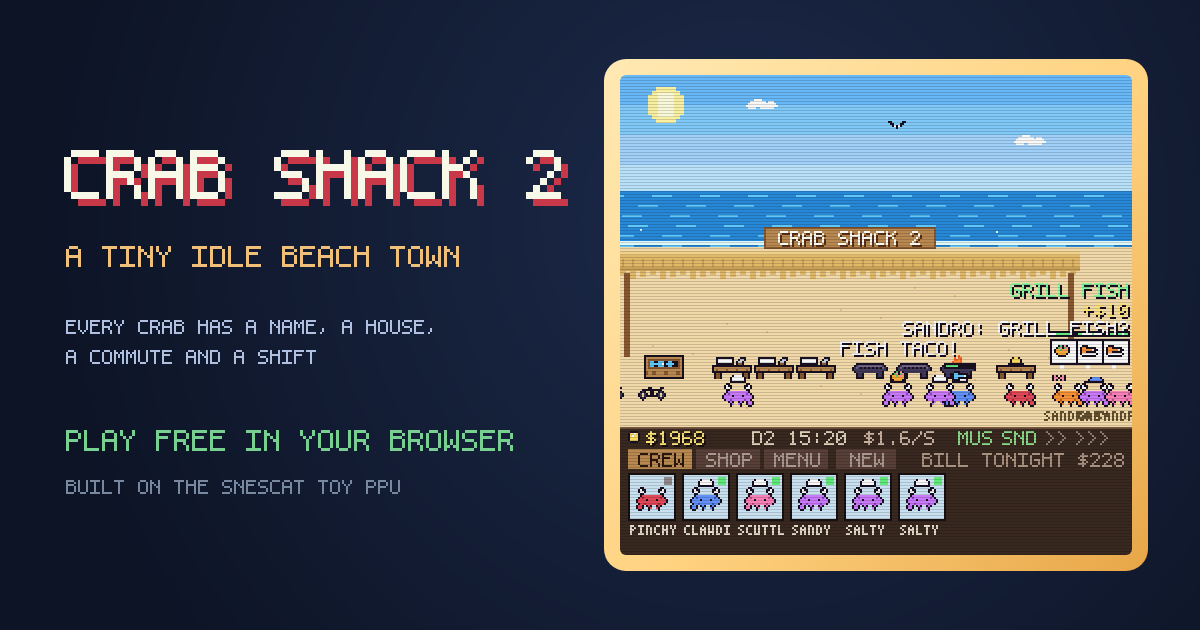
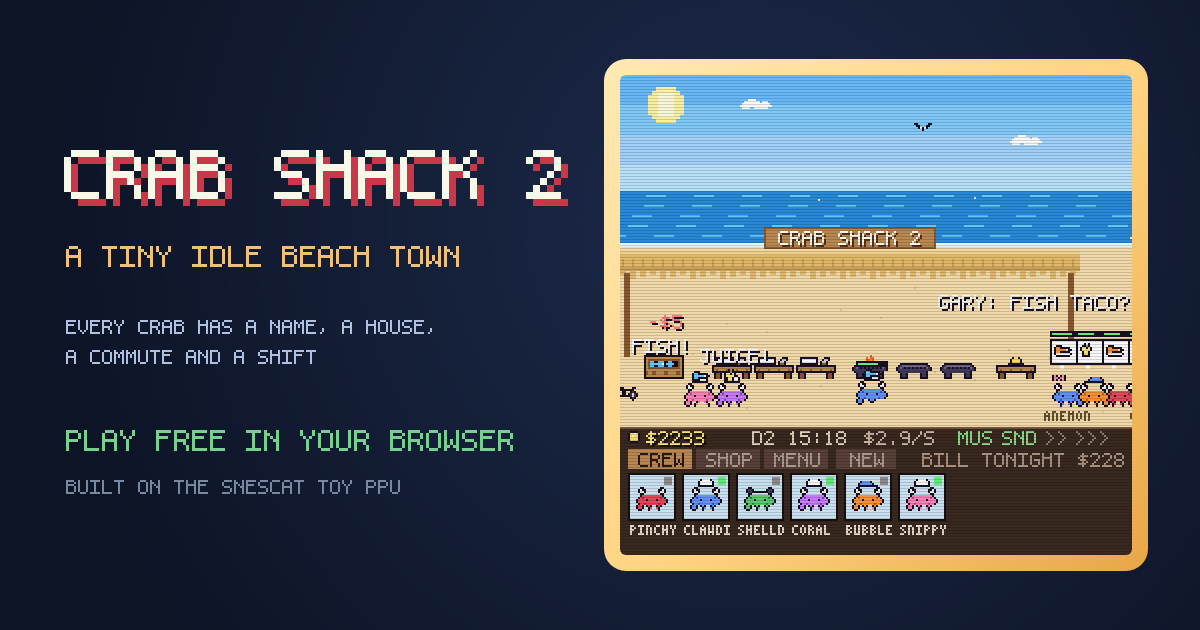
Fix stranded commuters, duplicate hires, and the hardcoded track credit
stepTo() tested arrival against a fixed 2px window while moving
speed*dt per frame. Whenever a step exceeded the window the crab jumped
the target every frame and oscillated forever, so it never clocked in.
Measured with tools/headless.mjs at --step 0.1: 2 crabs on duty instead
of 5. Arrival now triggers if the step would reach or overshoot, which
makes the sim timestep-independent (0.1 / 0.05 / 1/60 now agree on duty
counts, coins within 1.7%) and leaves 60fps play byte-identical.

Hiring called makeCrabPersona(crabs.length + random(0..5)), but that
index derives name, colour and the alternating M/E shift. The random
offset handed out duplicate names (two SALTYs in one 6-crab town) and
coin-flipped the shift, so hires piled onto evenings and the shack sat
unstaffed 8:00-14:00. Now indexed by real crew position, with the name
drawn from those not already taken; trait/mode/accessory stay random.

The title screen hardcoded PIXEL WAVE WALTZ although the playlist
rotates five tracks. It now names what is queued, with the credit on
its own line since CARNIVAL OF THE GLITCH overflows 256px.

Balance is unmoved: untouched shack still 0/8 survivors, median
eviction day 12 before and after; knife-only median 12 both ways.

og.png regenerated so the card shows six distinct crew names.

diff --git a/game.js b/game.js
@@ -265,9 +265,14 @@ function leaveGmin(c) {
 
 function stepTo(c, target, speed, dt) {
   const d = target - c.x;
-  if (Math.abs(d) <= 2) { c.x = target; return true; }
+  const step = speed * dt;
+  // Arrive if this step would reach or overshoot the target. A fixed 2px
+  // window alone strands anyone whose step is bigger than the window: they
+  // jump the target every frame and oscillate forever, never clocking in.
+  // (At 60fps a step is well under 2px, so normal play is unchanged.)
+  if (Math.abs(d) <= Math.max(2, step)) { c.x = target; return true; }
   c.flip = d < 0;
-  c.x += Math.sign(d) * speed * dt;
+  c.x += Math.sign(d) * step;
   return false;
 }
 
@@ -529,7 +534,14 @@ function tryBuy(key) {
   if (u.lvl >= u.max || coins < upCost(u)) return;
   coins -= upCost(u); u.lvl++;
   if (key === "chef") {
-    const p2 = makeCrabPersona(crabs.length + ((Math.random() * 6) | 0));
+    // Index by the real crew position: makeCrabPersona derives name, colour
+    // and the alternating M/E shift from it, so a random offset here handed
+    // out duplicate names and coin-flipped the shift (leaving mornings
+    // unstaffed). Trait/mode/accessory are the gacha, and still random.
+    const p2 = makeCrabPersona(crabs.length);
+    const taken = new Set(crabs.map(k => k.p.name));
+    const freeNames = CRAB_NAMES.filter(n => !taken.has(n));
+    if (freeNames.length) p2.name = freeNames[(Math.random() * freeNames.length) | 0];
     const used = new Set(crabs.filter(k => !k.p.homeless).map(k => k.p.house));
     p2.homeless = true;
     for (let h = 0; h < HOUSE_XS.length; h++) if (!used.has(h)) { p2.house = h; p2.homeless = false; break; }
@@ -1107,8 +1119,13 @@ function drawTitle() {
   rect(ctx, bx + 1, ny + 1, 98, 14, conf ? [150, 60, 60] : [120, 100, 80]);
   text(ctx, conf ? "WIPE SAVE?" : "NEW GAME", bx + (conf ? 21 : 26), ny + 5, conf ? [255, 220, 220] : [235, 225, 210]);
   if (((time * 1.5) | 0) % 2) text(ctx, "CLICK TO PLAY", W / 2 - 38, 162, [255, 250, 235], 6);
-  text(ctx, "MUSIC: PIXEL WAVE WALTZ - MATT CLANKER", 14, PANEL_Y + 8, [200, 182, 165]);
-  text(ctx, "BUILT ON THE SNESCAT TOY PPU", 44, PANEL_Y + 20, [165, 145, 128]);
+  // the playlist rotates, so name whatever is actually queued up. Split off
+  // the credit: "MUSIC: CARNIVAL OF THE GLITCH - MATT CLANKER" is wider than
+  // the 256px screen.
+  const track = "MUSIC: " + PLAYLIST[trackIdx].name;
+  text(ctx, track, W / 2 - textWidth(track) / 2, PANEL_Y + 6, [200, 182, 165]);
+  text(ctx, "BY MATT CLANKER", W / 2 - textWidth("BY MATT CLANKER") / 2, PANEL_Y + 18, [200, 182, 165]);
+  text(ctx, "BUILT ON THE SNESCAT TOY PPU", 44, PANEL_Y + 30, [165, 145, 128]);
 }
 function drawGameOver() {
   ctx.fillStyle = "rgba(16,12,30,0.72)";
